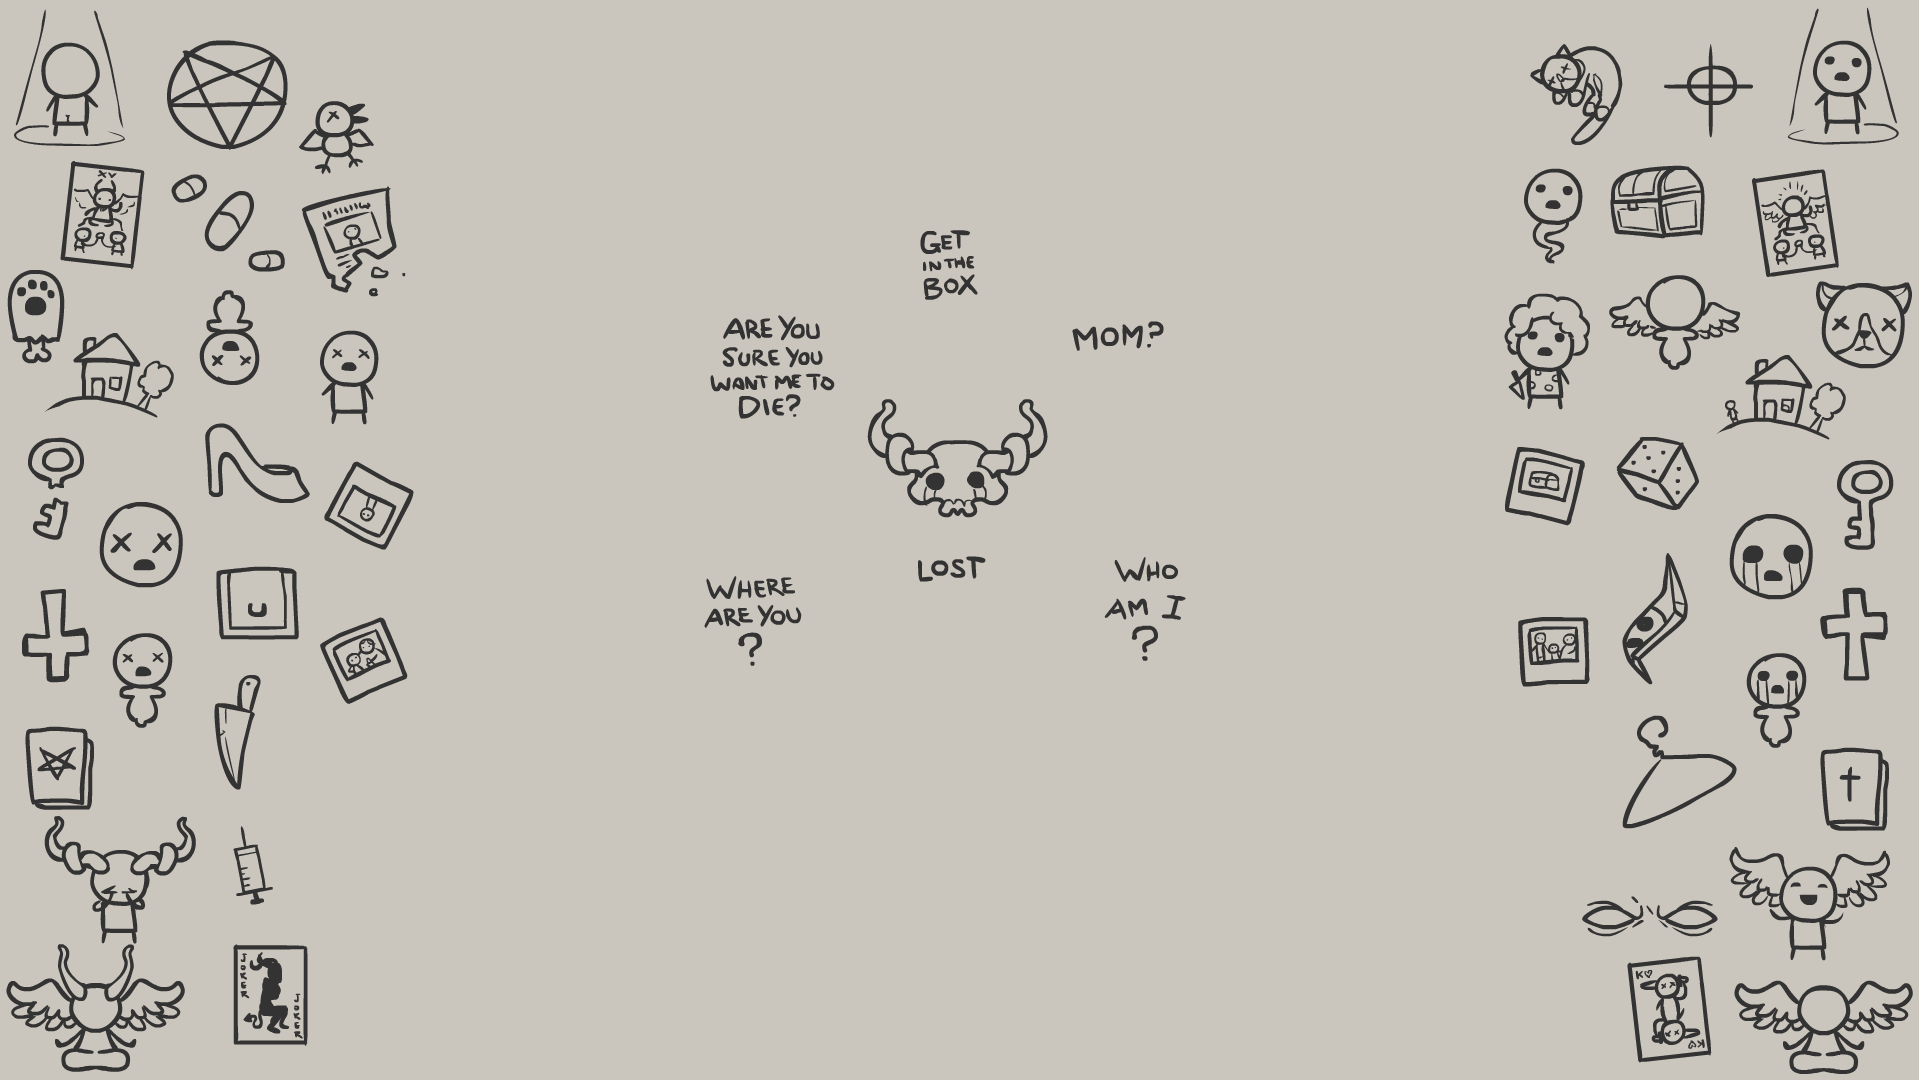
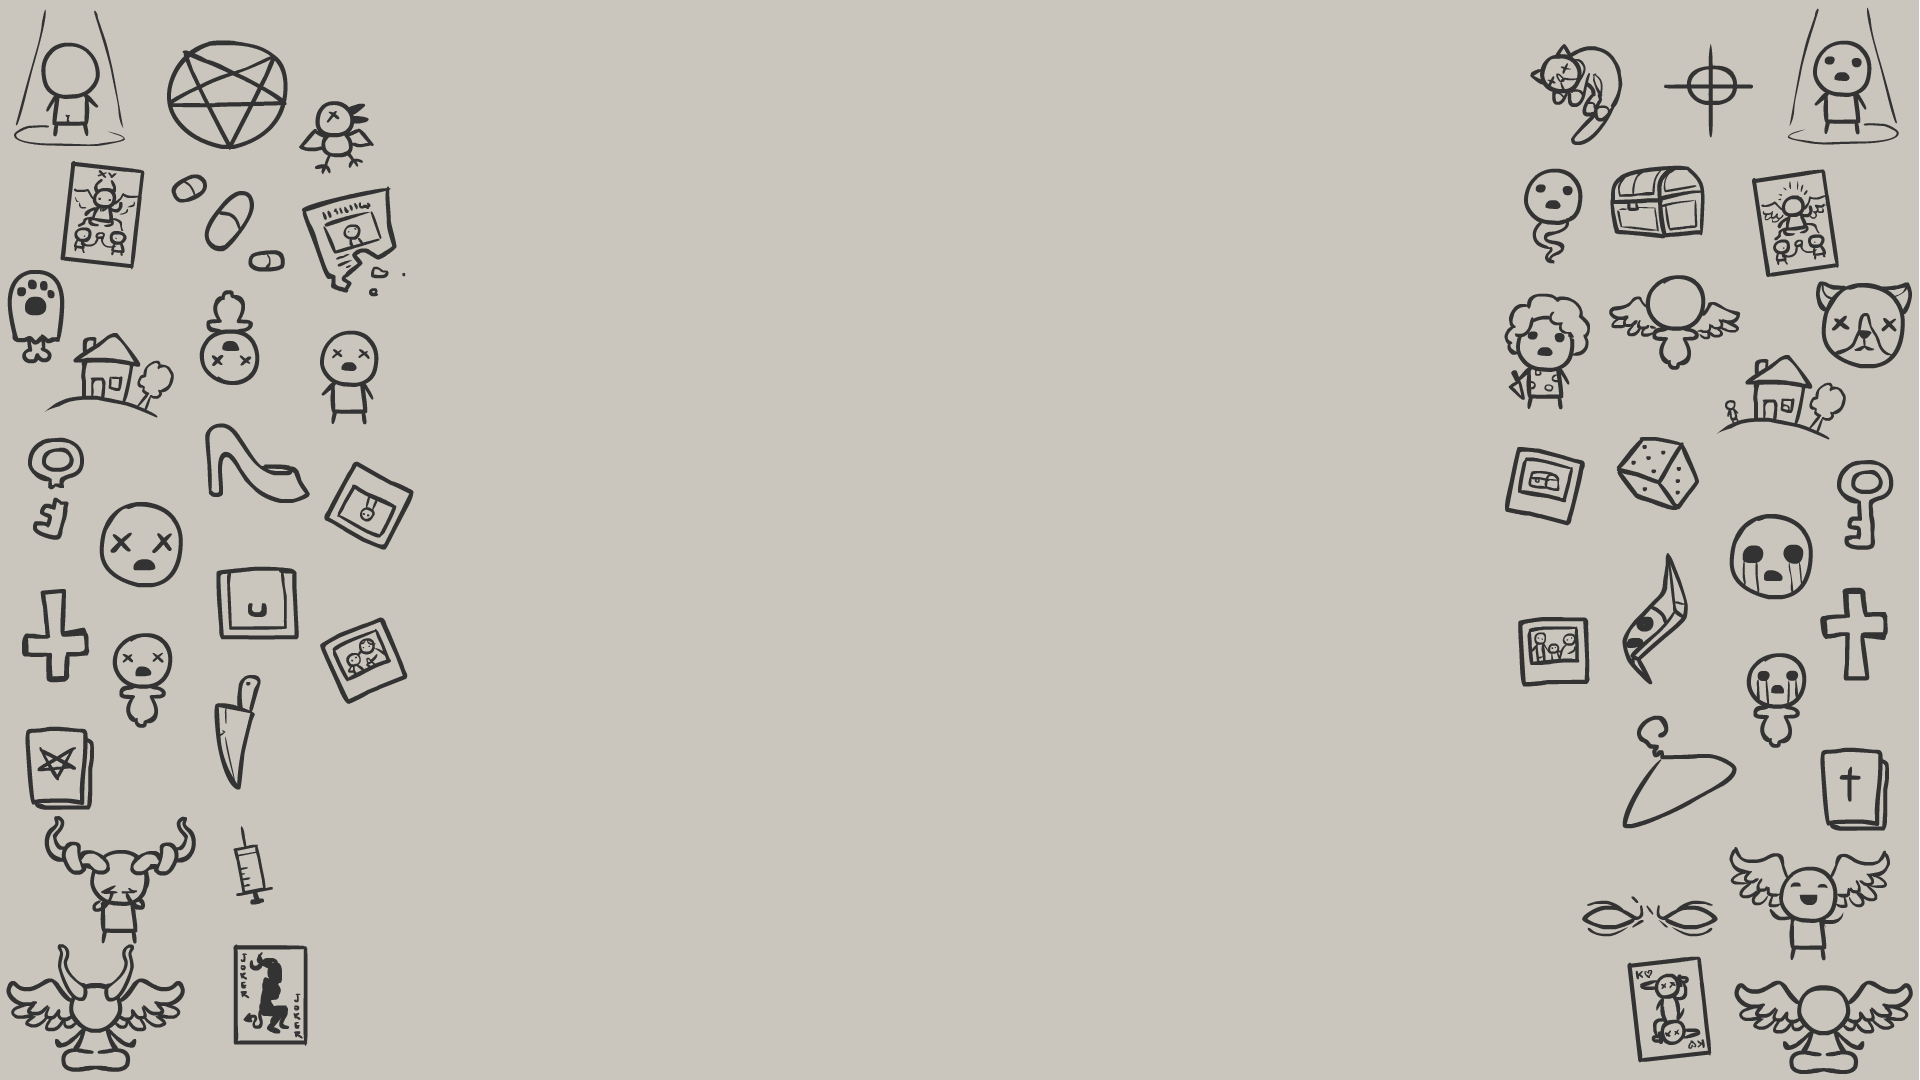
TBOISYN v0.03

diff --git a/index.html b/index.html
@@ -16,45 +16,45 @@
 
         <main>
             <section class="character-select">
-                <h2>Character Select</h2>
+                <h2>CHARACTER SELECT</h2>
                 <div class="character-grid">
                     <!-- Regular Characters -->
-                    <div class="character" data-character="isaac"><img src="images/isaac.png" alt="Isaac"><span>ISAAC</span></div>
-                    <div class="character" data-character="magdalene"><img src="images/magdalene.png" alt="Magdalene"><span>MAGDALENE</span></div>
-                    <div class="character" data-character="cain"><img src="images/cain.png" alt="Cain"><span>CAIN</span></div>
-                    <div class="character" data-character="judas"><img src="images/judas.png" alt="Judas"><span>JUDAS</span></div>
-                    <div class="character" data-character="blue_baby"><img src="images/blue_baby.png" alt="Blue Baby"><span>???</span></div>
-                    <div class="character" data-character="eve"><img src="images/eve.png" alt="Eve"><span>EVE</span></div>
-                    <div class="character" data-character="samson"><img src="images/samson.png" alt="Samson"><span>SAMSON</span></div>
-                    <div class="character" data-character="azazel"><img src="images/azazel.png" alt="Azazel"><span>AZAZEL</span></div>
-                    <div class="character" data-character="lazarus"><img src="images/lazarus.png" alt="Lazarus"><span>LAZARUS</span></div>
-                    <div class="character" data-character="eden"><img src="images/eden.png" alt="Eden"><span>EDEN</span></div>
-                    <div class="character" data-character="lost"><img src="images/lost.png" alt="Lost"><span>LOST</span></div>
-                    <div class="character" data-character="lilith"><img src="images/lilith.png" alt="Lilith"><span>LILITH</span></div>
-                    <div class="character" data-character="keeper"><img src="images/keeper.png" alt="Keeper"><span>KEEPER</span></div>
-                    <div class="character" data-character="apollyon"><img src="images/apollyon.png" alt="Apollyon"><span>APOLLYON</span></div>
-                    <div class="character" data-character="forgotten"><img src="images/forgotten.png" alt="Forgotten"><span>FORGOTTEN</span></div>
-                    <div class="character" data-character="bethany"><img src="images/bethany.png" alt="Bethany"><span>BETHANY</span></div>
-                    <div class="character" data-character="jacob_esau"><img src="images/jacob_esau.png" alt="Jacob and Esau"><span>JACOB & ESAU</span></div>
+                    <div class="character" data-character="isaac"><img src="images/isaac.png" alt="Isaac"><div class="char-name">ISAAC</div></div>
+                    <div class="character" data-character="magdalene"><img src="images/magdalene.png" alt="Magdalene"><div class="char-name">MAGDALENE</div></div>
+                    <div class="character" data-character="cain"><img src="images/cain.png" alt="Cain"><div class="char-name">CAIN</div></div>
+                    <div class="character" data-character="judas"><img src="images/judas.png" alt="Judas"><div class="char-name">JUDAS</div></div>
+                    <div class="character" data-character="blue_baby"><img src="images/blue_baby.png" alt="Blue Baby"><div class="char-name">???</div></div>
+                    <div class="character" data-character="eve"><img src="images/eve.png" alt="Eve"><div class="char-name">EVE</div></div>
+                    <div class="character" data-character="samson"><img src="images/samson.png" alt="Samson"><div class="char-name">SAMSON</div></div>
+                    <div class="character" data-character="azazel"><img src="images/azazel.png" alt="Azazel"><div class="char-name">AZAZEL</div></div>
+                    <div class="character" data-character="lazarus"><img src="images/lazarus.png" alt="Lazarus"><div class="char-name">LAZARUS</div></div>
+                    <div class="character" data-character="eden"><img src="images/eden.png" alt="Eden"><div class="char-name">EDEN</div></div>
+                    <div class="character" data-character="lost"><img src="images/lost.png" alt="Lost"><div class="char-name">LOST</div></div>
+                    <div class="character" data-character="lilith"><img src="images/lilith.png" alt="Lilith"><div class="char-name">LILITH</div></div>
+                    <div class="character" data-character="keeper"><img src="images/keeper.png" alt="Keeper"><div class="char-name">KEEPER</div></div>
+                    <div class="character" data-character="apollyon"><img src="images/apollyon.png" alt="Apollyon"><div class="char-name">APOLLYON</div></div>
+                    <div class="character" data-character="forgotten"><img src="images/forgotten.png" alt="Forgotten"><div class="char-name">FORGOTTEN</div></div>
+                    <div class="character" data-character="bethany"><img src="images/bethany.png" alt="Bethany"><div class="char-name">BETHANY</div></div>
+                    <div class="character" data-character="jacob_esau"><img src="images/jacob_esau.png" alt="Jacob and Esau"><div class="char-name">JACOB & ESAU</div></div>
                     
                     <!-- Tainted Characters -->
-                    <div class="character" data-character="tainted_isaac"><img src="images/tainted_isaac.png" alt="Tainted Isaac"><span>T.ISAAC</span></div>
-                    <div class="character" data-character="tainted_magdalene"><img src="images/tainted_magdalene.png" alt="Tainted Magdalene"><span>T.MAGDALENE</span></div>
-                    <div class="character" data-character="tainted_cain"><img src="images/tainted_cain.png" alt="Tainted Cain"><span>T.CAIN</span></div>
-                    <div class="character" data-character="tainted_judas"><img src="images/tainted_judas.png" alt="Tainted Judas"><span>T.JUDAS</span></div>
-                    <div class="character" data-character="tainted_blue_baby"><img src="images/tainted_blue_baby.png" alt="Tainted Blue Baby"><span>T.???</span></div>
-                    <div class="character" data-character="tainted_eve"><img src="images/tainted_eve.png" alt="Tainted Eve"><span>T.EVE</span></div>
-                    <div class="character" data-character="tainted_samson"><img src="images/tainted_samson.png" alt="Tainted Samson"><span>T.SAMSON</span></div>
-                    <div class="character" data-character="tainted_azazel"><img src="images/tainted_azazel.png" alt="Tainted Azazel"><span>T.AZAZEL</span></div>
-                    <div class="character" data-character="tainted_lazarus"><img src="images/tainted_lazarus.png" alt="Tainted Lazarus"><span>T.LAZARUS</span></div>
-                    <div class="character" data-character="tainted_eden"><img src="images/tainted_eden.png" alt="Tainted Eden"><span>T.EDEN</span></div>
-                    <div class="character" data-character="tainted_lost"><img src="images/tainted_lost.png" alt="Tainted Lost"><span>T.LOST</span></div>
-                    <div class="character" data-character="tainted_lilith"><img src="images/tainted_lilith.png" alt="Tainted Lilith"><span>T.LILITH</span></div>
-                    <div class="character" data-character="tainted_keeper"><img src="images/tainted_keeper.png" alt="Tainted Keeper"><span>T.KEEPER</span></div>
-                    <div class="character" data-character="tainted_apollyon"><img src="images/tainted_apollyon.png" alt="Tainted Apollyon"><span>T.APOLLYON</span></div>
-                    <div class="character" data-character="tainted_forgotten"><img src="images/tainted_forgotten.png" alt="Tainted Forgotten"><span>T.FORGOTTEN</span></div>
-                    <div class="character" data-character="tainted_bethany"><img src="images/tainted_bethany.png" alt="Tainted Bethany"><span>T.BETHANY</span></div>
-                    <div class="character" data-character="tainted_jacob"><img src="images/tainted_jacob.png" alt="Tainted Jacob"><span>T.JACOB</span></div>
+                    <div class="character" data-character="tainted_isaac"><img src="images/tainted_isaac.png" alt="Tainted Isaac"><div class="char-name">T.ISAAC</div></div>
+                    <div class="character" data-character="tainted_magdalene"><img src="images/tainted_magdalene.png" alt="Tainted Magdalene"><div class="char-name">T.MAGDALENE</div></div>
+                    <div class="character" data-character="tainted_cain"><img src="images/tainted_cain.png" alt="Tainted Cain"><div class="char-name">T.CAIN</div></div>
+                    <div class="character" data-character="tainted_judas"><img src="images/tainted_judas.png" alt="Tainted Judas"><div class="char-name">T.JUDAS</div></div>
+                    <div class="character" data-character="tainted_blue_baby"><img src="images/tainted_blue_baby.png" alt="Tainted Blue Baby"><div class="char-name">T.???</div></div>
+                    <div class="character" data-character="tainted_eve"><img src="images/tainted_eve.png" alt="Tainted Eve"><div class="char-name">T.EVE</div></div>
+                    <div class="character" data-character="tainted_samson"><img src="images/tainted_samson.png" alt="Tainted Samson"><div class="char-name">T.SAMSON</div></div>
+                    <div class="character" data-character="tainted_azazel"><img src="images/tainted_azazel.png" alt="Tainted Azazel"><div class="char-name">T.AZAZEL</div></div>
+                    <div class="character" data-character="tainted_lazarus"><img src="images/tainted_lazarus.png" alt="Tainted Lazarus"><div class="char-name">T.LAZARUS</div></div>
+                    <div class="character" data-character="tainted_eden"><img src="images/tainted_eden.png" alt="Tainted Eden"><div class="char-name">T.EDEN</div></div>
+                    <div class="character" data-character="tainted_lost"><img src="images/tainted_lost.png" alt="Tainted Lost"><div class="char-name">T.LOST</div></div>
+                    <div class="character" data-character="tainted_lilith"><img src="images/tainted_lilith.png" alt="Tainted Lilith"><div class="char-name">T.LILITH</div></div>
+                    <div class="character" data-character="tainted_keeper"><img src="images/tainted_keeper.png" alt="Tainted Keeper"><div class="char-name">T.KEEPER</div></div>
+                    <div class="character" data-character="tainted_apollyon"><img src="images/tainted_apollyon.png" alt="Tainted Apollyon"><div class="char-name">T.APOLLYON</div></div>
+                    <div class="character" data-character="tainted_forgotten"><img src="images/tainted_forgotten.png" alt="Tainted Forgotten"><div class="char-name">T.FORGOTTEN</div></div>
+                    <div class="character" data-character="tainted_bethany"><img src="images/tainted_bethany.png" alt="Tainted Bethany"><div class="char-name">T.BETHANY</div></div>
+                    <div class="character" data-character="tainted_jacob"><img src="images/tainted_jacob.png" alt="Tainted Jacob"><div class="char-name">T.JACOB</div></div>
                 </div>
             </section>
 

diff --git a/style.css b/style.css
@@ -7,24 +7,13 @@
 }
 
 body {
-    background-color: #f0e6d2;
[1 lines of base64/hex data omitted]
     padding: 20px;
     color: #333;
     line-height: 1.6;
     position: relative;
-}
-
-body::before {
-    content: "";
-    position: fixed;
-    top: 0;
-    left: 0;
-    width: 100%;
-    height: 100%;
-    z-index: -1;
[1 lines of base64/hex data omitted]
-    opacity: 0.7;
+    background: url('images/background.png') center center no-repeat;
+    background-size: cover;
+    background-attachment: fixed;
 }
 
 .container {
@@ -85,6 +74,8 @@ header {
     cursor: pointer;
     transition: all 0.2s ease;
     text-align: center;
+    width: 60px;
+    height: 60px;
 }
 
 .character:hover {
@@ -101,14 +92,15 @@ header {
 
 .character span {
     display: block;
-    font-size: 0.7em;
+    font-size: 0.6em;
     padding: 2px;
-    background-color: rgba(0, 0, 0, 0.5);
+    background-color: transparent;
     color: white;
     text-align: center;
     position: absolute;
     bottom: 0;
     width: 100%;
+    text-shadow: 1px 1px 2px black, -1px -1px 2px black, 1px -1px 2px black, -1px 1px 2px black;
 }
 
 .character.positive::after {
@@ -161,6 +153,7 @@ header {
     background-color: #f5e9d7;
     position: relative;
     overflow: hidden;
+    cursor: pointer;
 }
 
 .slot img {
@@ -184,12 +177,13 @@ header {
     display: block;
     font-size: 0.7em;
     padding: 2px;
-    background-color: rgba(0, 0, 0, 0.5);
+    background-color: transparent;
     color: white;
     text-align: center;
     position: absolute;
     bottom: 0;
     width: 100%;
+    text-shadow: 1px 1px 2px black, -1px -1px 2px black, 1px -1px 2px black, -1px 1px 2px black;
 }
 
 /* Clear Button */
@@ -361,19 +355,6 @@ header {
     .team-grid {
         grid-template-columns: repeat(auto-fill, minmax(150px, 1fr));
     }
-}
-
-/* Background Images and Decorations */
-.container::before {
-    content: "";
-    position: absolute;
-    top: 0;
-    left: 0;
-    width: 100%;
-    height: 100%;
-    z-index: -1;
-    background-image: url('https://wallpapercave.com/wp/wp2264796.png');
-    opacity: 0.5;
 }
 
 /* Animation Effects */

diff --git a/script.js b/script.js
@@ -128,35 +128,35 @@ document.addEventListener('DOMContentLoaded', function() {
         });
     });
 
-// Initialize slot click events (for removing characters)
-slotElements.forEach((slotElement, index) => {
-    slotElement.addEventListener('click', () => {
-        if (index < selectedCharacters.length) {
-            // Remove character from the selected list
-            selectedCharacters.splice(index, 1);
-            
-            // Shift all characters after this slot
-            for (let i = index; i < maxSelectedCharacters - 1; i++) {
-                if (i < selectedCharacters.length) {
-                    updateSlot(i, selectedCharacters[i]);
-                } else {
-                    clearSlot(i);
+    // Initialize slot click events (for removing characters)
+    slotElements.forEach((slotElement, index) => {
+        slotElement.addEventListener('click', () => {
+            if (index < selectedCharacters.length) {
+                // Remove character from the selected list
+                selectedCharacters.splice(index, 1);
+                
+                // Shift all characters after this slot
+                for (let i = index; i < maxSelectedCharacters - 1; i++) {
+                    if (i < selectedCharacters.length) {
+                        updateSlot(i, selectedCharacters[i]);
+                    } else {
+                        clearSlot(i);
+                    }
                 }
+                
+                // Clear the last slot if we had max characters
+                if (selectedCharacters.length < maxSelectedCharacters) {
+                    clearSlot(selectedCharacters.length);
+                }
+                
+                // Update synergies
+                updateSynergies();
+                
+                // Update character interactions
+                updateCharacterInteractions();
             }
-            
-            // Clear the last slot if we had max characters
-            if (selectedCharacters.length < maxSelectedCharacters) {
-                clearSlot(selectedCharacters.length);
-            }
-            
-            // Update synergies
-            updateSynergies();
-            
-            // Update character interactions
-            updateCharacterInteractions();
-        }
+        });
     });
-});
 
     // Clear button functionality
     clearButton.addEventListener('click', () => {
@@ -363,4 +363,4 @@ slotElements.forEach((slotElement, index) => {
             element.classList.remove('positive', 'negative');
         });
     }
-                
+});
